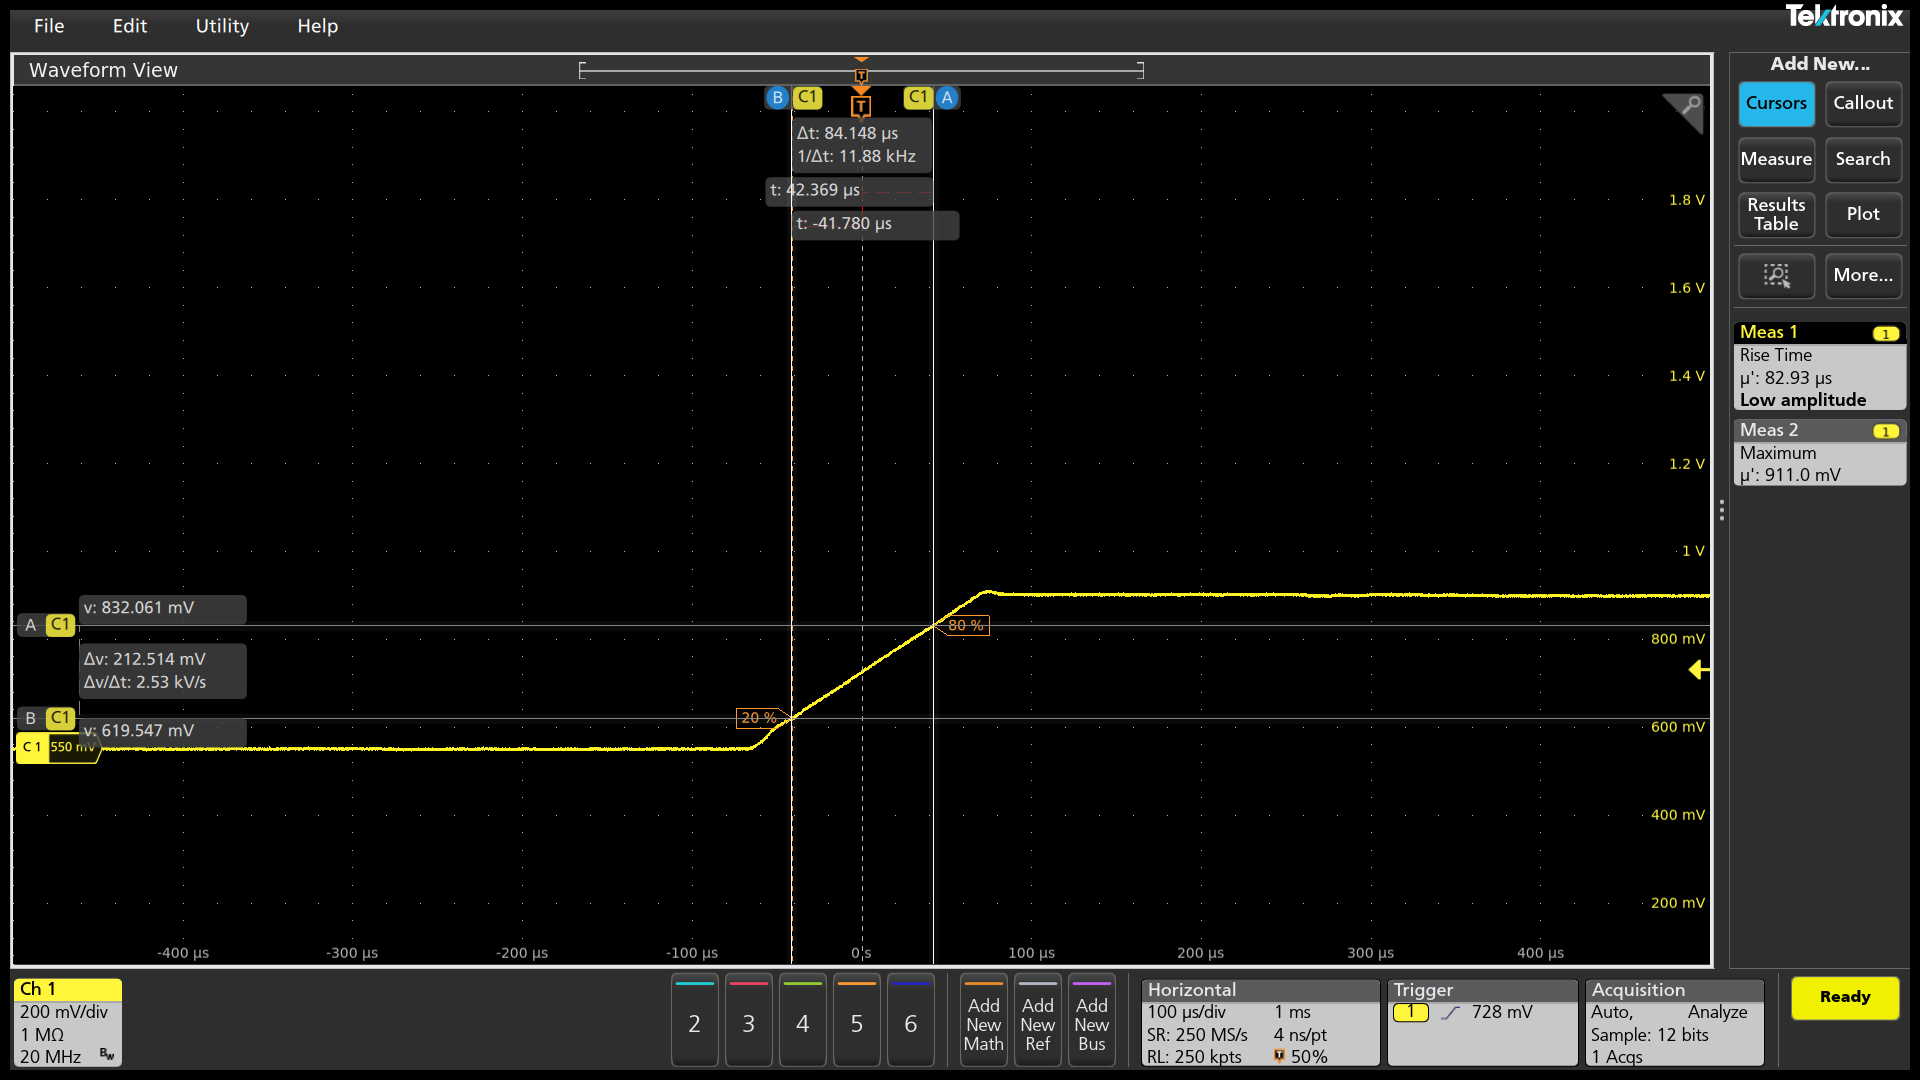
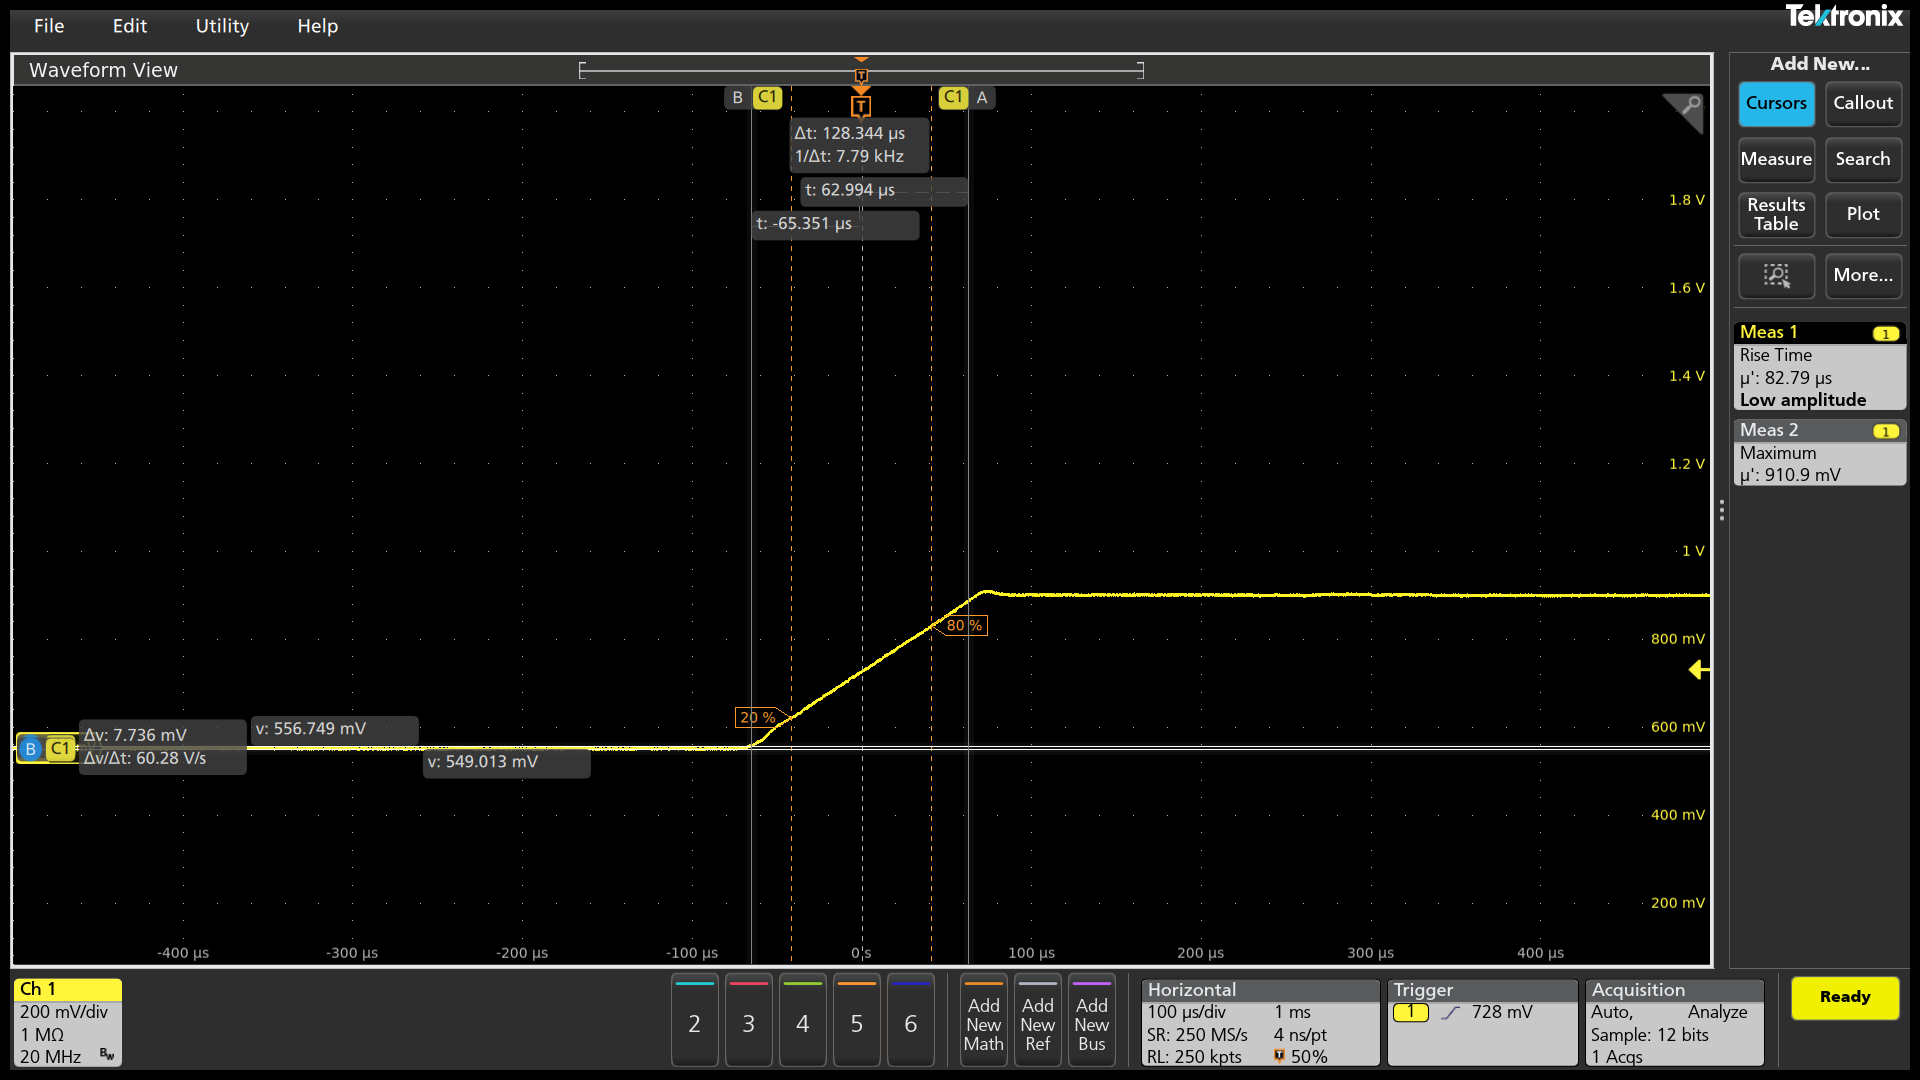
change scope code to fix mean value error

Changed region(s): [[0.0, 0.55, 0.4375, 0.7333], [0.375, 0.0611, 0.5312, 0.2444], [0.4688, 0.55, 0.5312, 0.5806]]

diff --git a/VISA_MSO46B.py b/VISA_MSO46B.py
@@ -259,8 +259,15 @@ class TektronixMSO46B:
         dict = {t.lower(): i+1 for i, t in enumerate(scope_measurement_key)}
         self.inst.write(":MEASure:MEAS{}:VALue?".format(dict["mean"]))
         time.sleep(0.5)
-        raw = float(self.inst.read().strip())
-        time.sleep(0.5)
+        try:
+            raw = self.inst.read().strip()
+            raw=float(raw)
+            time.sleep(0.5)
+
+        except ValueError:
+            time.sleep(0.5)
+            raw = float(self.inst.read().strip())
+            time.sleep(0.5)
         try:
             #v = round(float(self.inst.query("MEASUREMENT:MEAS{}:VALUE?".format(dict["mean"])).strip()), 3)
             v = round(raw, 3)

diff --git a/random_scriblle..py b/random_scriblle..py
@@ -1,0 +1,7 @@
+
+
+
+print("nothing")
+for i in range(90,101,1):
+    n=i%10
+    print("{}--> {}".format(i,n))
